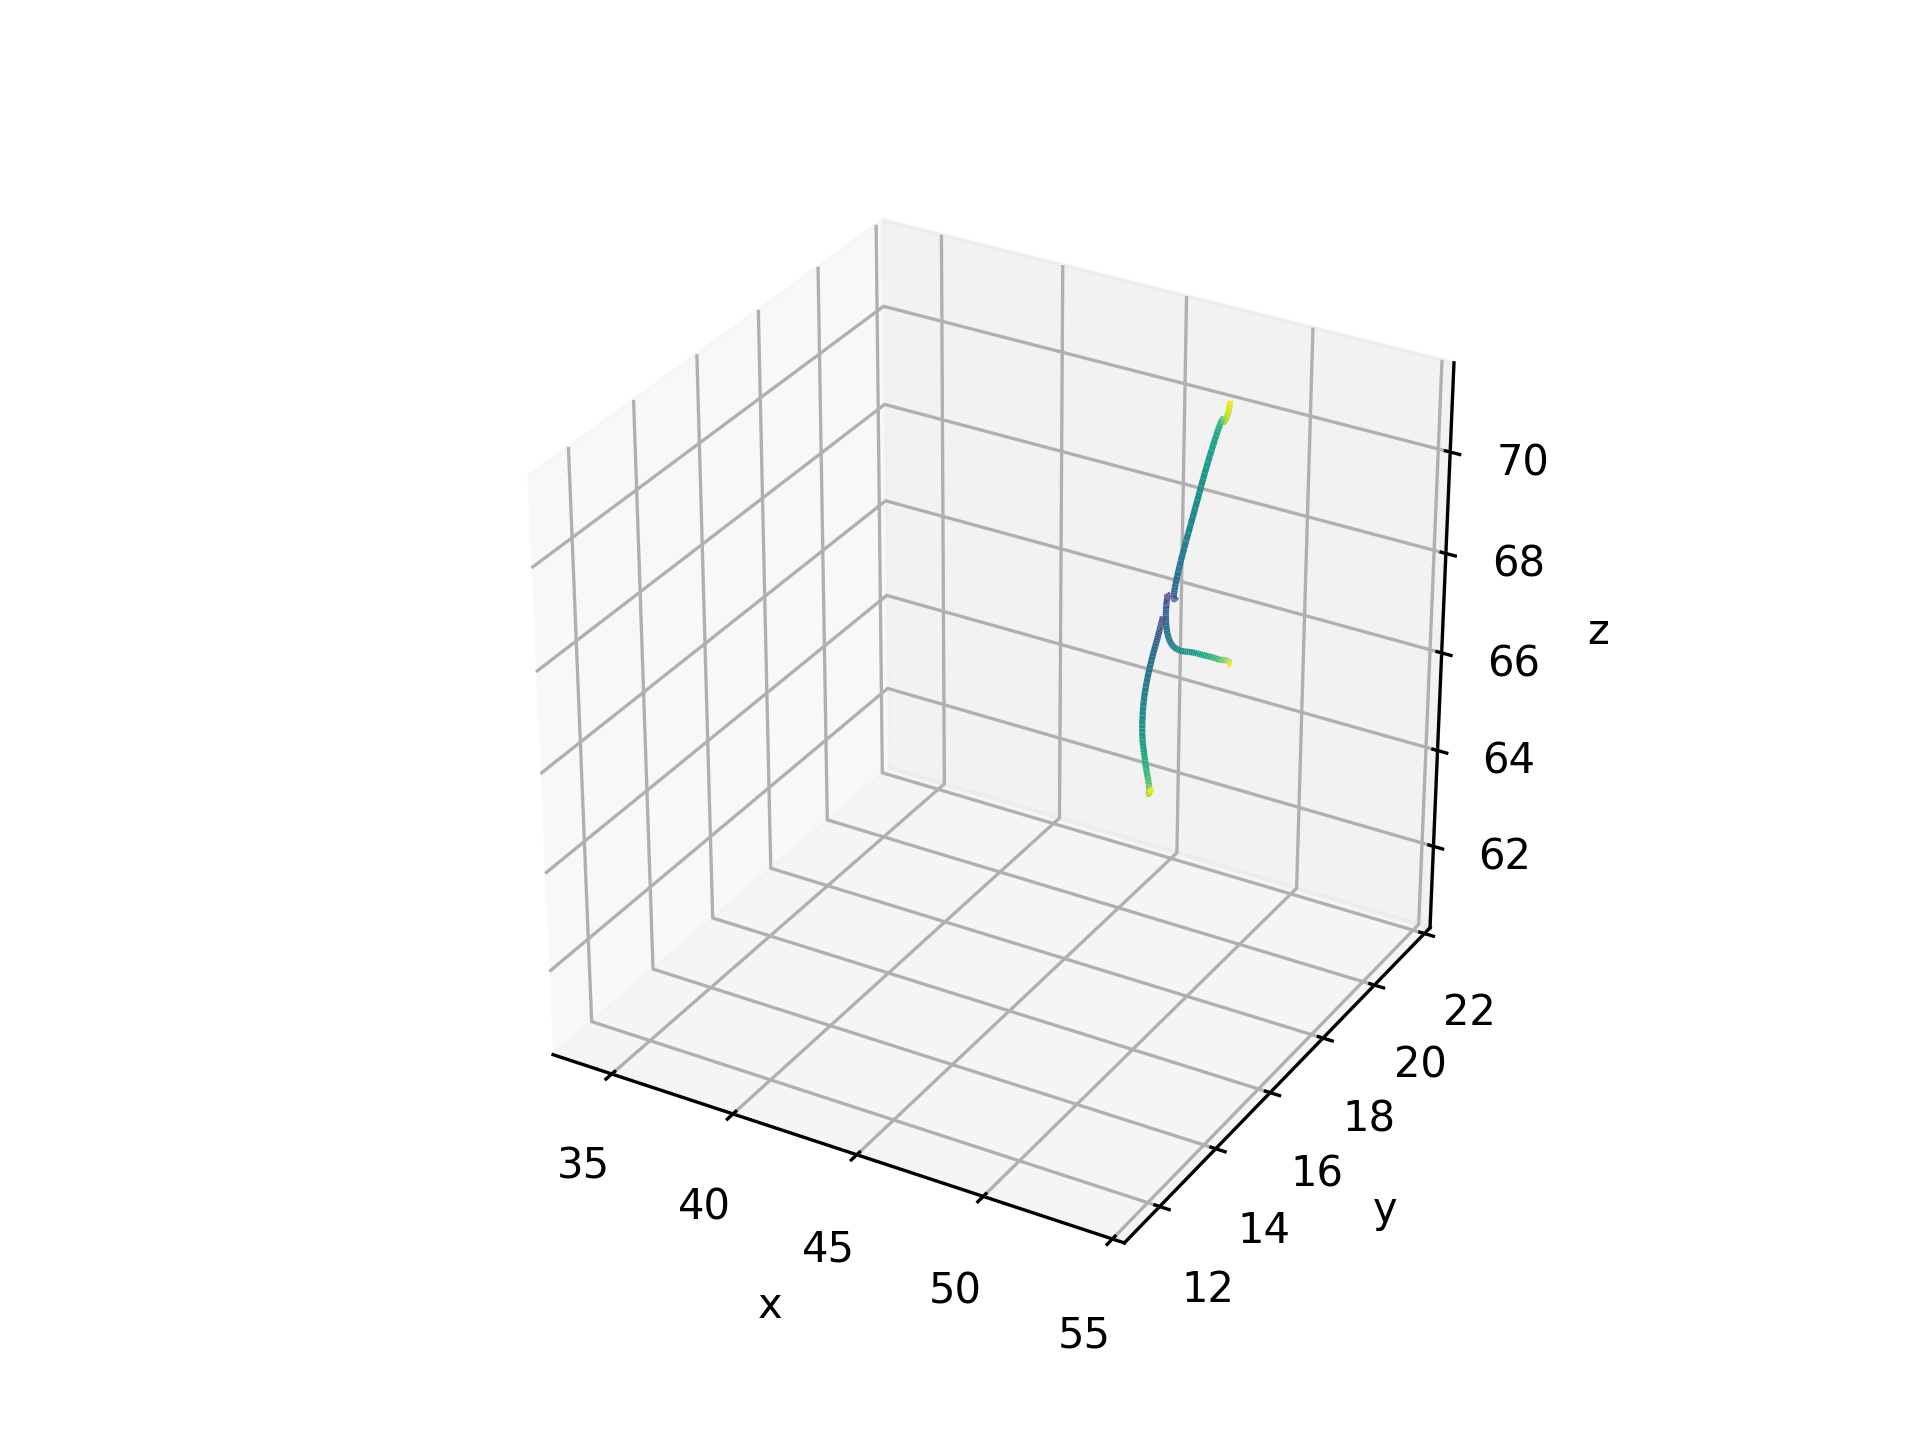
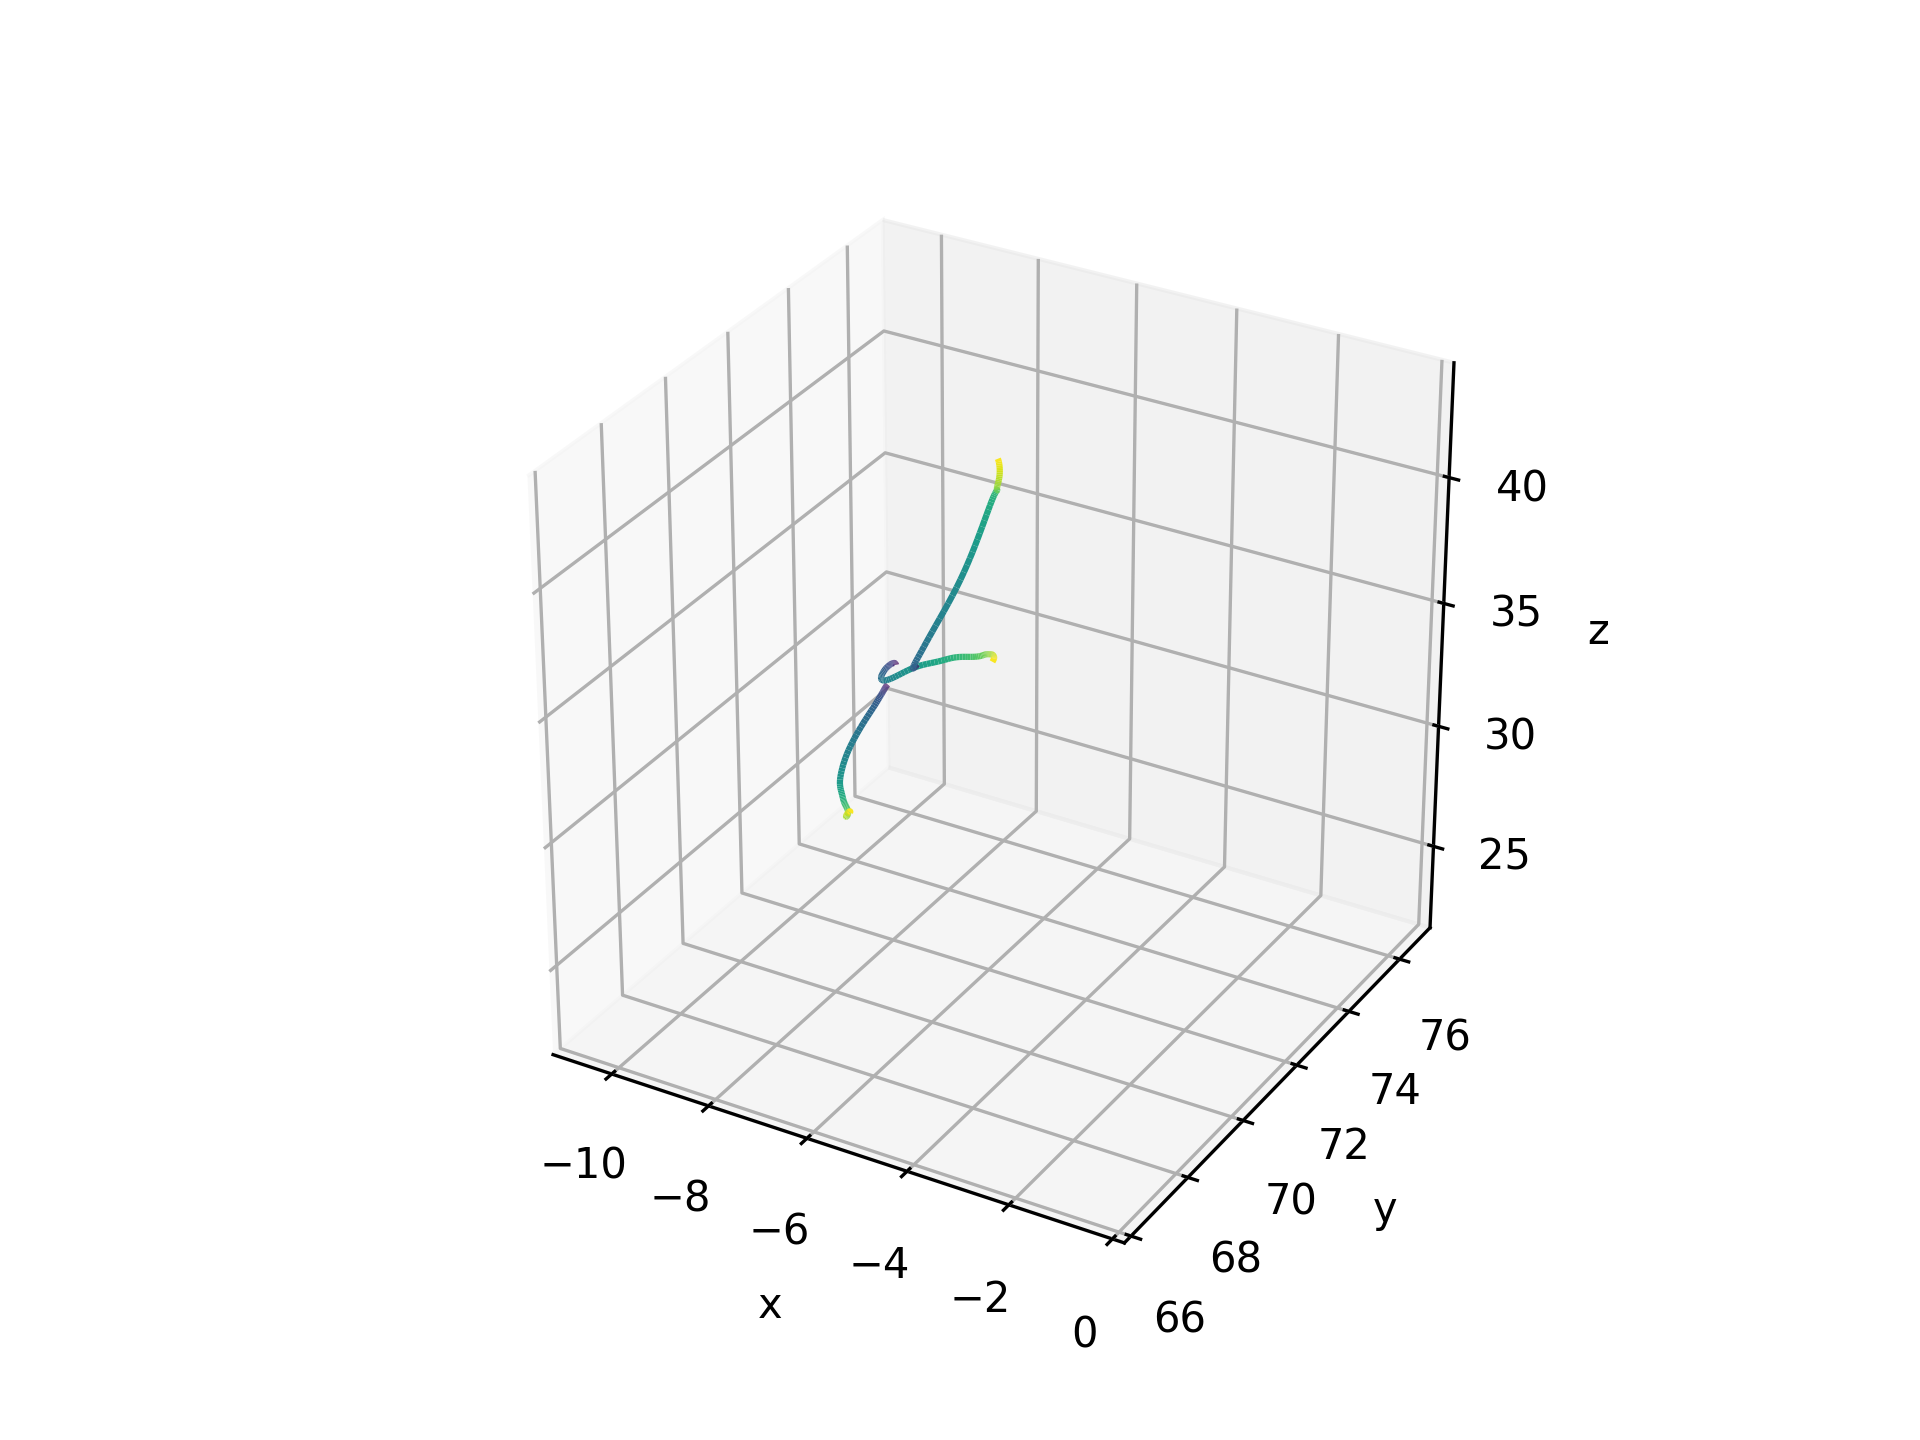
update test bounds and n_colors

diff --git a/aopy/visualization/base.py b/aopy/visualization/base.py
@@ -1,6 +1,7 @@
 # visualization.py
 # Code for general neural data plotting (raster plots, multi-channel field potential plots, psth, etc.)
 
+import warnings
 import seaborn as sns
 import matplotlib
 import matplotlib.pyplot as plt
@@ -125,11 +126,11 @@ def gradient_timeseries(data, samplerate, n_colors=100, color_palette='viridis',
     if ax is None:
         ax = plt.gca()
 
-    time = np.arange(data.shape[0]) / samplerate
-    colors = sns.color_palette(color_palette, n_colors)
+    n_pt = data.shape[0]
+    time = np.arange(n_pt) / samplerate
+    colors = sns.color_palette(color_palette, min(n_colors, n_pt))
 
     # Segment the line
-    n_pt = data.shape[0]
     labels = np.zeros((n_pt,), dtype='int')
     size = (n_pt // n_colors) * n_colors # largest size we can evenly split into n_colors
     labels[:size] = np.repeat(range(n_colors), n_pt // n_colors)
@@ -753,12 +754,13 @@ def gradient_trajectories(trajectories, n_colors=100, color_palette='viridis', b
         trajectories (ntrials): list of 2D or 3D trajectories, in x, y[, z] coordinates
         n_colors (int, optional): number of colors in the gradient. Default 100.
         color_palette (str, optional): colormap to use for the gradient. Default 'viridis'.
-        bounds (tuple, optional): 6-element tuple describing (-x, x, -y, y, -z, z) cursor bounds
+        bounds (tuple, optional): 6-element tuple describing (-x, x, -y, y, -z, z) axes bounds
         ax (plt.Axis, optional): axis to plot the targets on
         kwargs (dict): keyword arguments to pass to the LineCollection function (similar to plt.plot)
 
     Example:
 
+        Cursor trajectories in 2D
         .. code-block:: python
 
             subject = 'beignet'
@@ -769,6 +771,20 @@ def gradient_trajectories(trajectories, n_colors=100, color_palette='viridis', b
             gradient_trajectories(traj[:3])
         
         .. image:: _images/gradient_trajectories.png
+
+        Hand trajectories in 3D
+        .. code-block:: python
+
+            traj, _ = aopy.data.get_kinematic_segments(preproc_dir, subject, te_id, date, [32], [81, 82, 83, 239], datatype='hand')
+            plt.figure()
+            ax = plt.axes(projection='3d')
+            gradient_trajectories(traj[:3], bounds=[-10,0,60,70,20,40], ax=ax)
+
+        .. image:: _images/gradient_trajectories_3d.png
+
+    Note:
+        Automatic bounds aren't set in 3D plots. The best alternative is to first plot in 2D, then use
+        those bounds to manually set the first 2 axes bounds for the 3D plot.
     '''
 
     if ax is None:
@@ -777,6 +793,9 @@ def gradient_trajectories(trajectories, n_colors=100, color_palette='viridis', b
     color_list = sns.color_palette(color_palette, n_colors)
     for traj in trajectories:
         n_pt = len(traj)
+
+        if n_pt < n_colors:
+            warnings.warn("Not enough datapoints to divide into n_colors!")
 
         # Assign labels to the trajectory according to color
         labels = np.zeros((n_pt,), dtype='int')

diff --git a/tests/test_visualization.py b/tests/test_visualization.py
@@ -460,7 +460,15 @@ class OtherPlottingTests(unittest.TestCase):
         gradient_trajectories(trajectories, n_colors=4)
         plt.title('Gradient trajectories')
         filename = 'gradient_trajectories_simple.png'
-        savefig(docs_dir, filename)
+        savefig(write_dir, filename)
+        plt.close()
+
+        # Test what happens when the number of colors is higher than the number of points
+        plt.figure()
+        gradient_trajectories(trajectories, n_colors=5)
+        plt.title('Gradient trajectories')
+        filename = 'gradient_trajectories_error.png'
+        savefig(write_dir, filename)
         plt.close()
 
         # Load some test cursor data
@@ -479,7 +487,7 @@ class OtherPlottingTests(unittest.TestCase):
         traj, _ = aopy.data.get_kinematic_segments(preproc_dir, subject, te_id, date, [32], [81, 82, 83, 239], datatype='hand')
         plt.figure()
         ax = plt.axes(projection='3d')
-        gradient_trajectories(traj[:3], bounds=[30,50,10,20,55,65], ax=ax)
+        gradient_trajectories(traj[:3], bounds=[-10,0,60,70,20,40], ax=ax)
 
         filename = 'gradient_trajectories_3d.png'
         savefig(docs_dir, filename)
